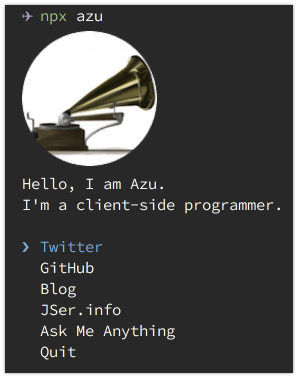
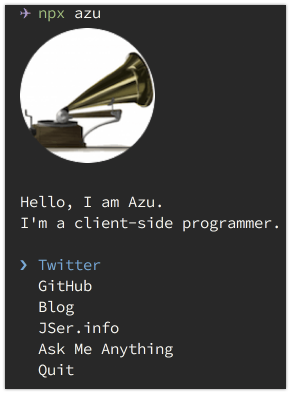
Update CLI

diff --git a/README.md b/README.md
@@ -14,4 +14,6 @@
 
 ## CLI
 
+![CLI screenshot](./packages/azu/screenshot.png)
+
     npx azu
